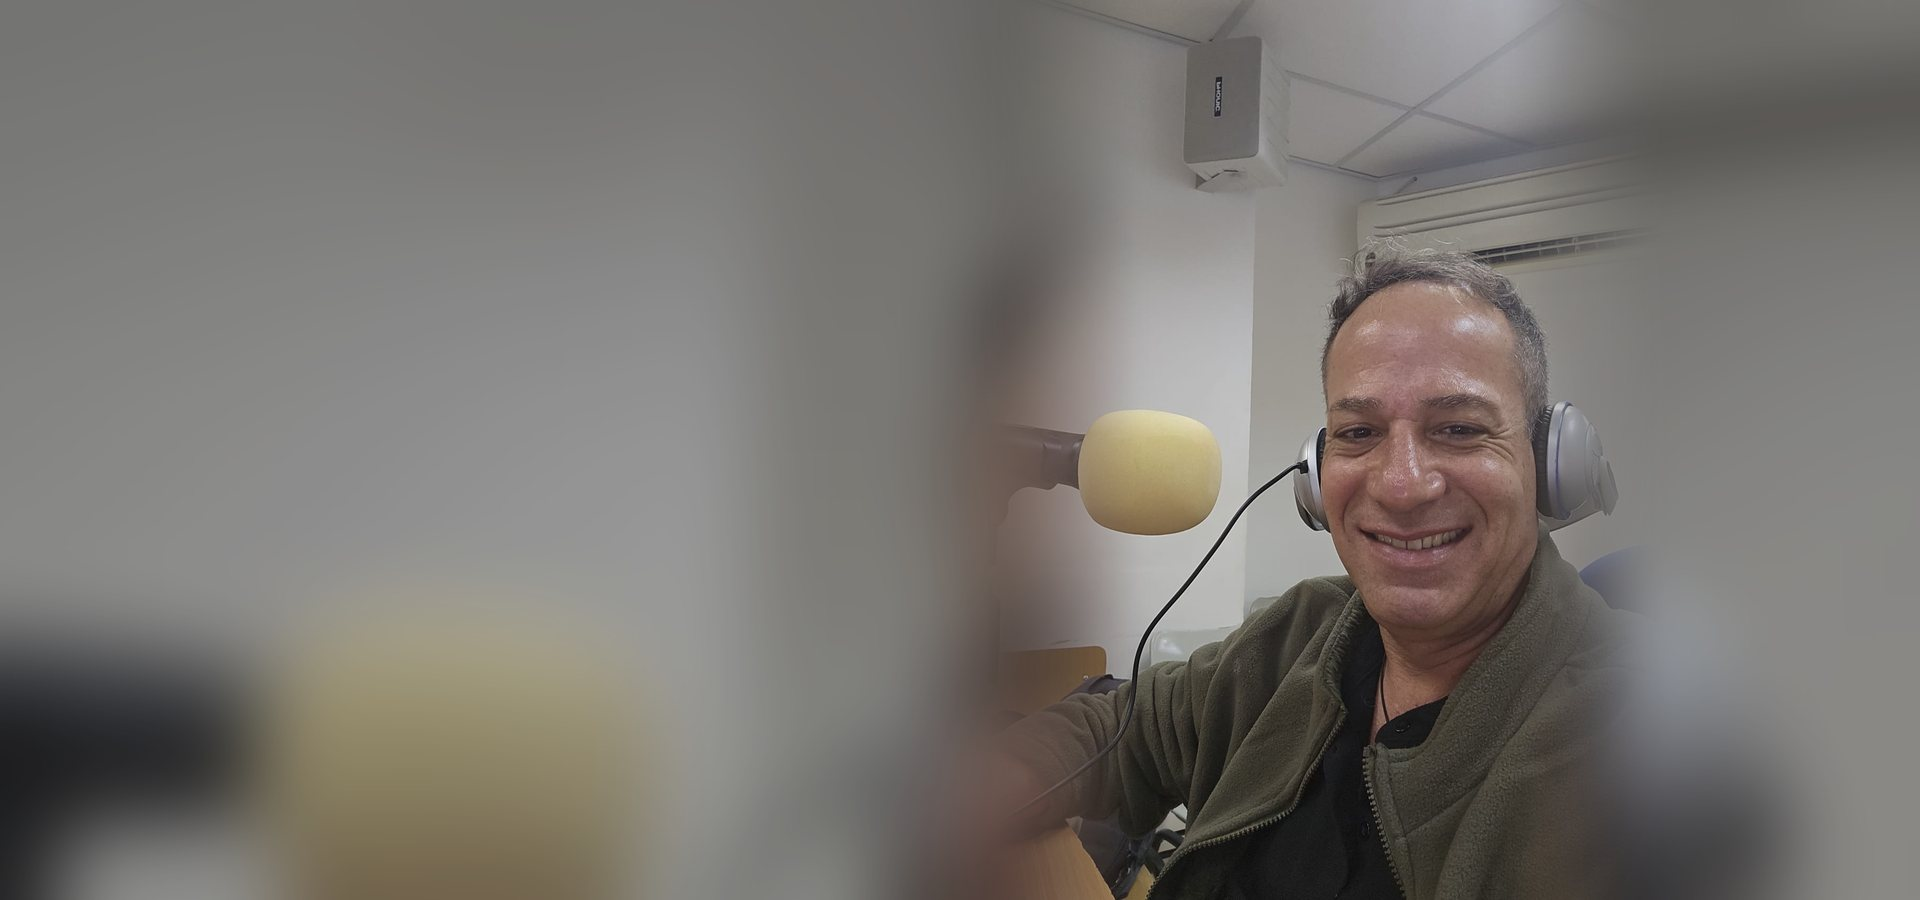
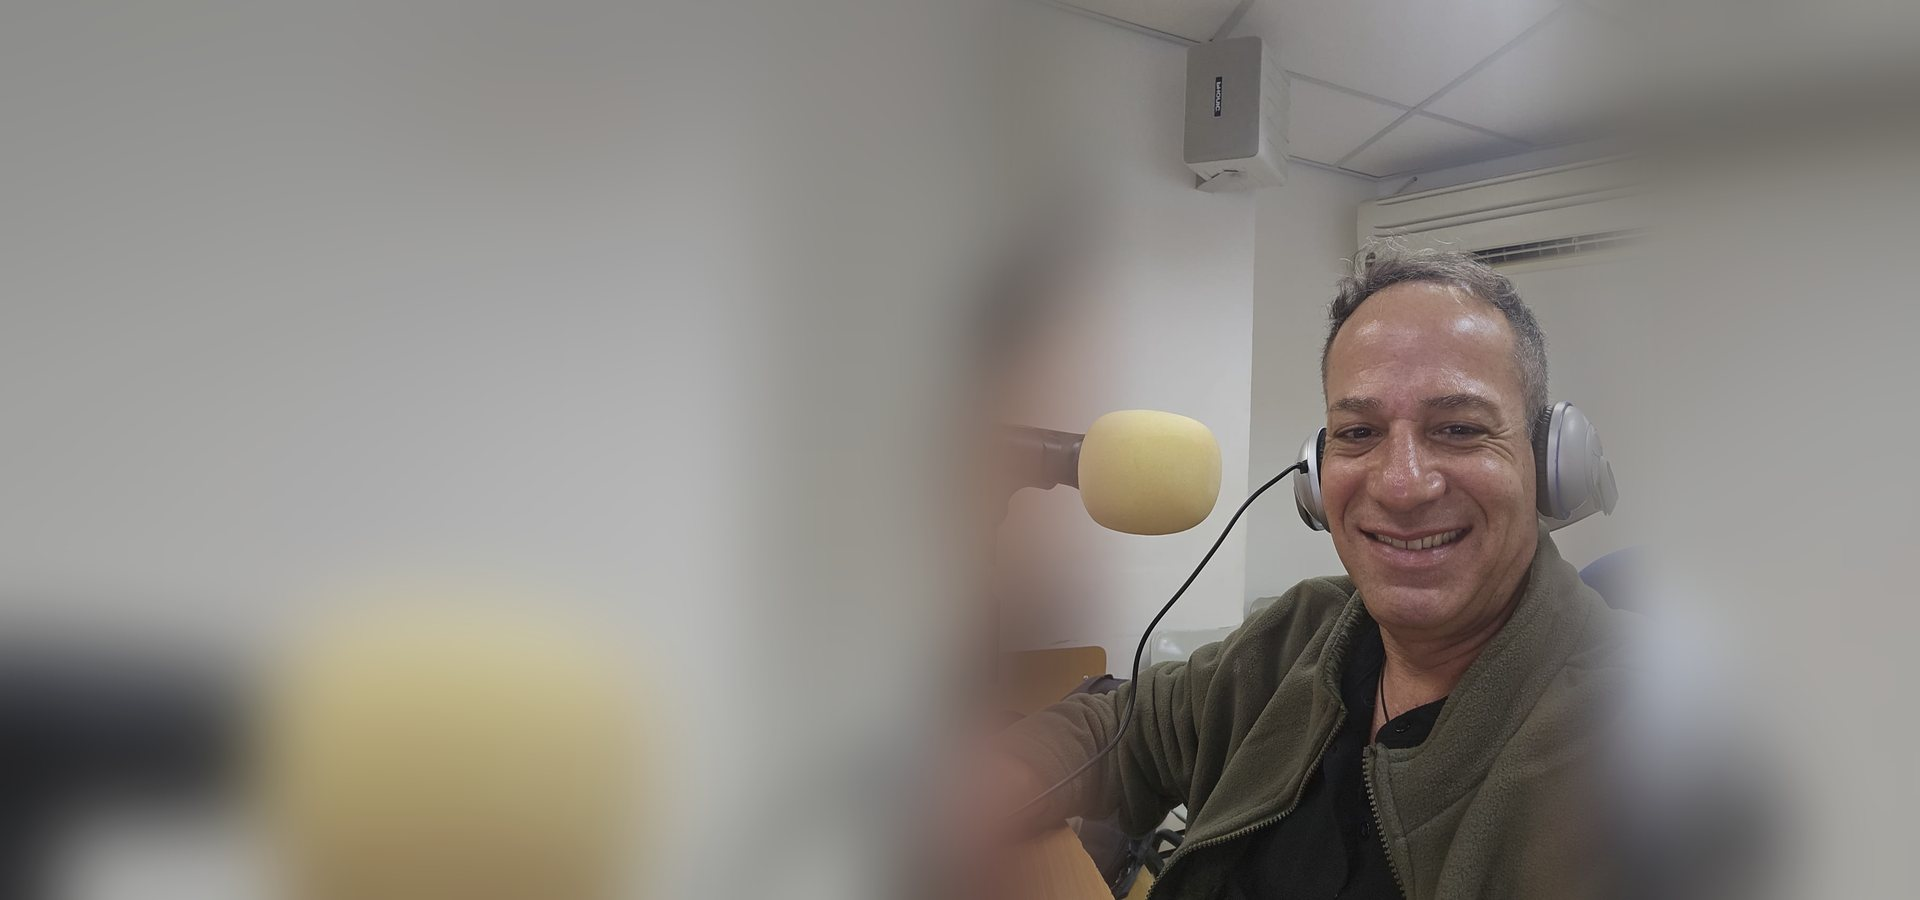
podcast hero: brighten the photo, keep text contrast above AA via a tighter scrim

diff --git a/css/style.css b/css/style.css
@@ -812,10 +812,22 @@ html.acc-motion .nselect.open .ns-opt{animation:none}
    מברירת המחדל של photo-hero, אחרת הכיתוב הלבן נבלע */
 .photo-hero.ph-dim::before{
   background:
-    linear-gradient(to top,rgba(24,34,29,.6) 0%,rgba(24,34,29,.46) 48%,rgba(24,34,29,.38) 100%),
-    radial-gradient(78% 100% at 44% 58%,rgba(24,34,29,.42),transparent 74%),
+    linear-gradient(to top,rgba(24,34,29,.3) 0%,rgba(24,34,29,.16) 48%,rgba(24,34,29,.1) 100%),
+    radial-gradient(66% 86% at 42% 62%,rgba(24,34,29,.3),transparent 72%),
     /* נגיעת מותג בצד הכיתוב, שהקיר הלבן המטושטש לא יישאר אפור שטוח */
-    linear-gradient(115deg,rgba(124,58,237,.34) 0%,rgba(95,122,106,.2) 40%,transparent 66%);
+    linear-gradient(115deg,rgba(124,58,237,.24) 0%,rgba(95,122,106,.12) 40%,transparent 66%);
+}
+/* התמונה בהירה, אז הכיתוב הלבן נשען על צל טקסט חזק יותר במקום על סקרים כהה */
+.photo-hero.ph-dim h1{text-shadow:0 2px 10px rgba(24,34,29,.6),0 1px 34px rgba(24,34,29,.45)}
+.photo-hero.ph-dim p{text-shadow:0 1px 8px rgba(24,34,29,.62),0 1px 26px rgba(24,34,29,.4)}
+/* במובייל אין חיתוך אנכי (התמונה בדיוק בגובה ההירו), אז הכיתוב נופל ישירות על
+   הפנים ולא על הקיר המטושטש - שם עדיין נדרש סקרים חזק יותר מאשר בדסקטופ */
+@media(max-width:600px){
+  .photo-hero.ph-dim::before{
+    background:
+      linear-gradient(to top,rgba(24,34,29,.46) 0%,rgba(24,34,29,.32) 50%,rgba(24,34,29,.24) 100%),
+      radial-gradient(84% 62% at 50% 66%,rgba(24,34,29,.4),transparent 76%);
+  }
 }
 .photo-hero .eyebrow{background:rgba(255,255,255,.16);color:#fff;backdrop-filter:blur(8px)}
 
